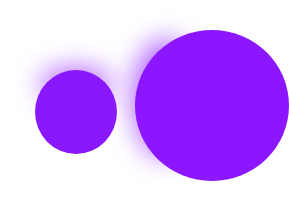
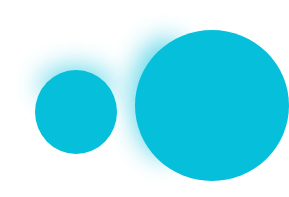
Creacion de la pantalla de dificultades, enlaces a los distintas dificultades y algunos cambios esteticos

diff --git a/app/views/Dificults/DificultScreen.tsx b/app/views/Dificults/DificultScreen.tsx
@@ -1,0 +1,63 @@
+import React from 'react'
+import { Text, View, Image, TextInput, TouchableOpacity } from 'react-native';
+import { StackNavigationProp } from '@react-navigation/stack'
+import { useNavigation } from '@react-navigation/native';
+import { RootStackParamList } from '../../../App';
+import { RoundedBtm } from '../../RoundedBtm';
+import DificultStyle from '../../styles/DIficultStyle';
+
+
+export const DificultScreen = () => {
+    const navigation = useNavigation<StackNavigationProp<RootStackParamList>>();
+
+    return (
+        <View style={DificultStyle.container} >
+
+
+            <View style={DificultStyle.container_user}>
+
+                <View style={DificultStyle.row}>
+                    <Image style={DificultStyle.image1} source={require('../../imgs/usuario.png')} />
+                    <Text>Steve S.</Text>
+                </View>
+
+                <Image style={DificultStyle.image2} source={require('../../imgs/resta.png')} />
+            </View>
+
+            <View style={DificultStyle.container_2}>
+
+                <View style={DificultStyle.container_text}>
+                    <Text style={DificultStyle.text}>Dificultades</Text>
+                </View>
+
+                <View style={DificultStyle.container_3}>
+
+                    <View style={DificultStyle.dificult} >
+                        <Text style={DificultStyle.dificult_text} onPress={() => navigation.navigate('FacilScreen')}>Fácil</Text>
+                    </View>
+
+                    <View style={DificultStyle.dificult} >
+                        <Text style={DificultStyle.dificult_text} onPress={() => navigation.navigate('DificilScreen')}>Medio</Text>
+                    </View>
+
+                    <View style={DificultStyle.dificult} >
+                        <Text style={DificultStyle.dificult_text} onPress={() => navigation.navigate('MediumScreen')}>Dificil</Text>
+                    </View>
+
+                    <View style={DificultStyle.dificult} >
+                        <Text style={DificultStyle.dificult_text} onPress={() => navigation.navigate('ExpertScreen')}>Experto</Text>
+                    </View>
+
+                    
+                </View>
+
+            </View>
+
+            <View style={DificultStyle.container_4}>
+
+                <Image style={DificultStyle.image3} source={require('../../imgs/suma.png')} />
+
+            </View>
+        </View>
+    )
+}

diff --git a/App.tsx b/App.tsx
@@ -3,11 +3,20 @@ import { NavigationContainer } from '@react-navigation/native';
 import { createNativeStackNavigator } from '@react-navigation/native-stack';
 import { HomeScreen } from './app/views/Home/HomeScreen';
 import { RegisterScreen } from './app/views/Register/RegisterScreen';
+import { DificultScreen } from './app/views/Dificults/DificultScreen';
+import { FacilScreen } from './app/views/Dificults/FacilScreen';
+import { DificilScreen } from './app/views/Dificults/DificilScreen';
+import { MediumScreen } from './app/views/Dificults/MediumScreen';
+import { ExpertScreen } from './app/views/Dificults/ExpertScreen';
 
 export type RootStackParamList ={
   HomeScreen: undefined,
   RegisterScreen: undefined,
-
+  DificultScreen: undefined,
+  FacilScreen: undefined,
+  DificilScreen: undefined,
+  MediumScreen: undefined,
+  ExpertScreen: undefined,
 };
 
 const Stack= createNativeStackNavigator<RootStackParamList>();
@@ -30,6 +39,42 @@ const App = () =>{
           headerShown: true,
           title: "Registrate"
         }}/>
+        <Stack.Screen 
+        name="DificultScreen" 
+        component={DificultScreen} 
+        options={{
+          headerShown: true,
+          title: "DificultScreen"
+        }}/>
+        <Stack.Screen 
+        name="FacilScreen" 
+        component={FacilScreen} 
+        options={{
+          headerShown: true,
+          title: "FacilScreen"
+        }}/>
+        <Stack.Screen 
+        name="DificilScreen" 
+        component={DificilScreen} 
+        options={{
+          headerShown: true,
+          title: "DificilScreen"
+        }}/>
+        <Stack.Screen 
+        name="MediumScreen" 
+        component={MediumScreen} 
+        options={{
+          headerShown: true,
+          title: "MediumScreen"
+        }}/>
+        <Stack.Screen 
+        name="ExpertScreen" 
+        component={ExpertScreen} 
+        options={{
+          headerShown: true,
+          title: "ExpertScreen"
+        }}/>
+        
       </Stack.Navigator>
     </NavigationContainer>
   )

diff --git a/app/styles/DIficultStyle.tsx b/app/styles/DIficultStyle.tsx
@@ -1,0 +1,92 @@
+import { StyleSheet } from 'react-native';
+ import React from 'react'
+ 
+const DificultStyle = StyleSheet.create({
+    container: {
+        flex: 1,
+        backgroundColor: '#fff',
+        flexDirection: 'column'
+
+    },
+
+    container_user:{
+        paddingTop:50,
+    },
+
+    row: {
+        flexDirection: 'row',
+        alignItems: 'center',
+    },
+
+
+    image1:{
+        width: 50,
+        height: 50,
+        marginLeft: 5,
+        marginRight: 5,
+    },
+
+    image2:{
+        height:70,
+        width:70,
+        alignSelf: 'flex-end',
+        transform: [{rotate:'45deg'}],
+        marginTop: -55
+    },
+
+    container_2:{
+        alignItems:'center',
+        justifyContent:'center'
+        
+    },
+
+    container_text:{
+        backgroundColor: '#0A4D68',
+        width: 150,
+        height: 50,
+        justifyContent: 'center',
+        borderRadius: 15,
+        marginTop: 50
+    },
+
+    text:{
+        color: '#05BFDB',
+        textAlign: 'center',
+        fontSize: 20,
+        fontWeight: 'bold'
+    },
+
+    container_3:{
+        marginTop: 20
+    },
+
+    dificult:{
+        backgroundColor: '#088395',
+        marginBottom: 25,
+        alignItems: 'center',
+        justifyContent: 'center',
+        width: 200,
+        height: 80,
+        borderRadius: 15,
+    },
+
+    dificult_text:{
+        fontSize: 20,
+        color: '#00FFCA'
+    },
+
+    container_4:{
+        paddingTop: 50
+        
+    },
+
+    image3:{
+        height:70,
+        width:70,
+        alignSelf: 'flex-start',
+        transform: [{rotate:'-25deg'}],
+        marginTop: 35
+    },
+})
+
+export default DificultStyle

diff --git a/app/views/Home/HomeScreen.tsx b/app/views/Home/HomeScreen.tsx
@@ -56,10 +56,7 @@ export const HomeScreen = () => {
                 />
 
                 <View >
-                    <RoundedBtm text='ENTRAR' onPress={ () =>{
-                        // console.log('Email. ' + email);
-                        // console.log('Pass: ' + password)
-                    }} />
+                    <RoundedBtm text='ENTRAR' onPress={() => navigation.navigate('DificultScreen')} />
                 </View>
 
                 <View style={styles.formRegister}>

diff --git a/app/styles/Styles.tsx b/app/styles/Styles.tsx
@@ -63,9 +63,9 @@ const styles = StyleSheet.create({
     },
     formRegisterTex: {
         fontStyle: "italic",
-        color: '#8b16ff',
+        color: '#05BFDB',
         borderBottomWidth: 1,
-        borderBottomColor: '#8b16ff',
+        borderBottomColor: '#05BFDB',
         fontWeight: 'bold',
         marginLeft: 10
 

diff --git a/app/styles/RoundedBtm.tsx b/app/styles/RoundedBtm.tsx
@@ -6,7 +6,7 @@ const RoundeStyleBtm = StyleSheet.create({
     RoundedButton:{
         width: '100%',
         height: 50,
-        backgroundColor: MyColors.primary,
+        backgroundColor: MyColors.success,
         alignItems: 'center',
         justifyContent: 'center',
         borderRadius: 15,

diff --git a/app/views/Dificults/DificilScreen.tsx b/app/views/Dificults/DificilScreen.tsx
@@ -1,0 +1,11 @@
+import React from 'react'
+import { Text, View, Image, TextInput, TouchableOpacity } from 'react-native';
+
+
+export const DificilScreen = () => {
+    return (
+        <View>
+            <Text>hola mundo</Text>
+        </View>
+    )
+}

diff --git a/server/server.js b/server/server.js
@@ -31,7 +31,7 @@ app.set('port', port);
 
 userRoutes(app);
 
-server.listen(3000, '10.10.5.8' || 'localhost', function(){
+server.listen(3000, '192.168.1.5' || 'localhost', function(){
     console.log('Node aplication ' + process.pid + ' iniciada');
 });
 

diff --git a/app/views/Dificults/MediumScreen.tsx b/app/views/Dificults/MediumScreen.tsx
@@ -1,0 +1,11 @@
+import React from 'react'
+import { Text, View, Image, TextInput, TouchableOpacity } from 'react-native';
+
+
+export const MediumScreen = () => {
+    return (
+        <View>
+            <Text>hola mundo</Text>
+        </View>
+    )
+}

diff --git a/app/views/Dificults/FacilScreen.tsx b/app/views/Dificults/FacilScreen.tsx
@@ -1,0 +1,11 @@
+import React from 'react'
+import { Text, View, Image, TextInput, TouchableOpacity } from 'react-native';
+
+
+export const FacilScreen = () => {
+    return (
+        <View>
+            <Text>hola mundo</Text>
+        </View>
+    )
+}

diff --git a/app/views/Dificults/ExpertScreen.tsx b/app/views/Dificults/ExpertScreen.tsx
@@ -1,0 +1,11 @@
+import React from 'react'
+import { Text, View, Image, TextInput, TouchableOpacity } from 'react-native';
+
+
+export const ExpertScreen = () => {
+  return (
+    <View>
+            <Text>hola mundo</Text>
+        </View>
+  )
+}

diff --git a/app/styles/theme/Theme.tsx b/app/styles/theme/Theme.tsx
@@ -4,6 +4,6 @@ export const MyColors = {
 
     primary: '#8b16ff',
     secondary: '#E14D2A',
-    background: '#EEEEEE'
-
+    background: '#EEEEEE',
+    success: '#05BFDB'
 }
